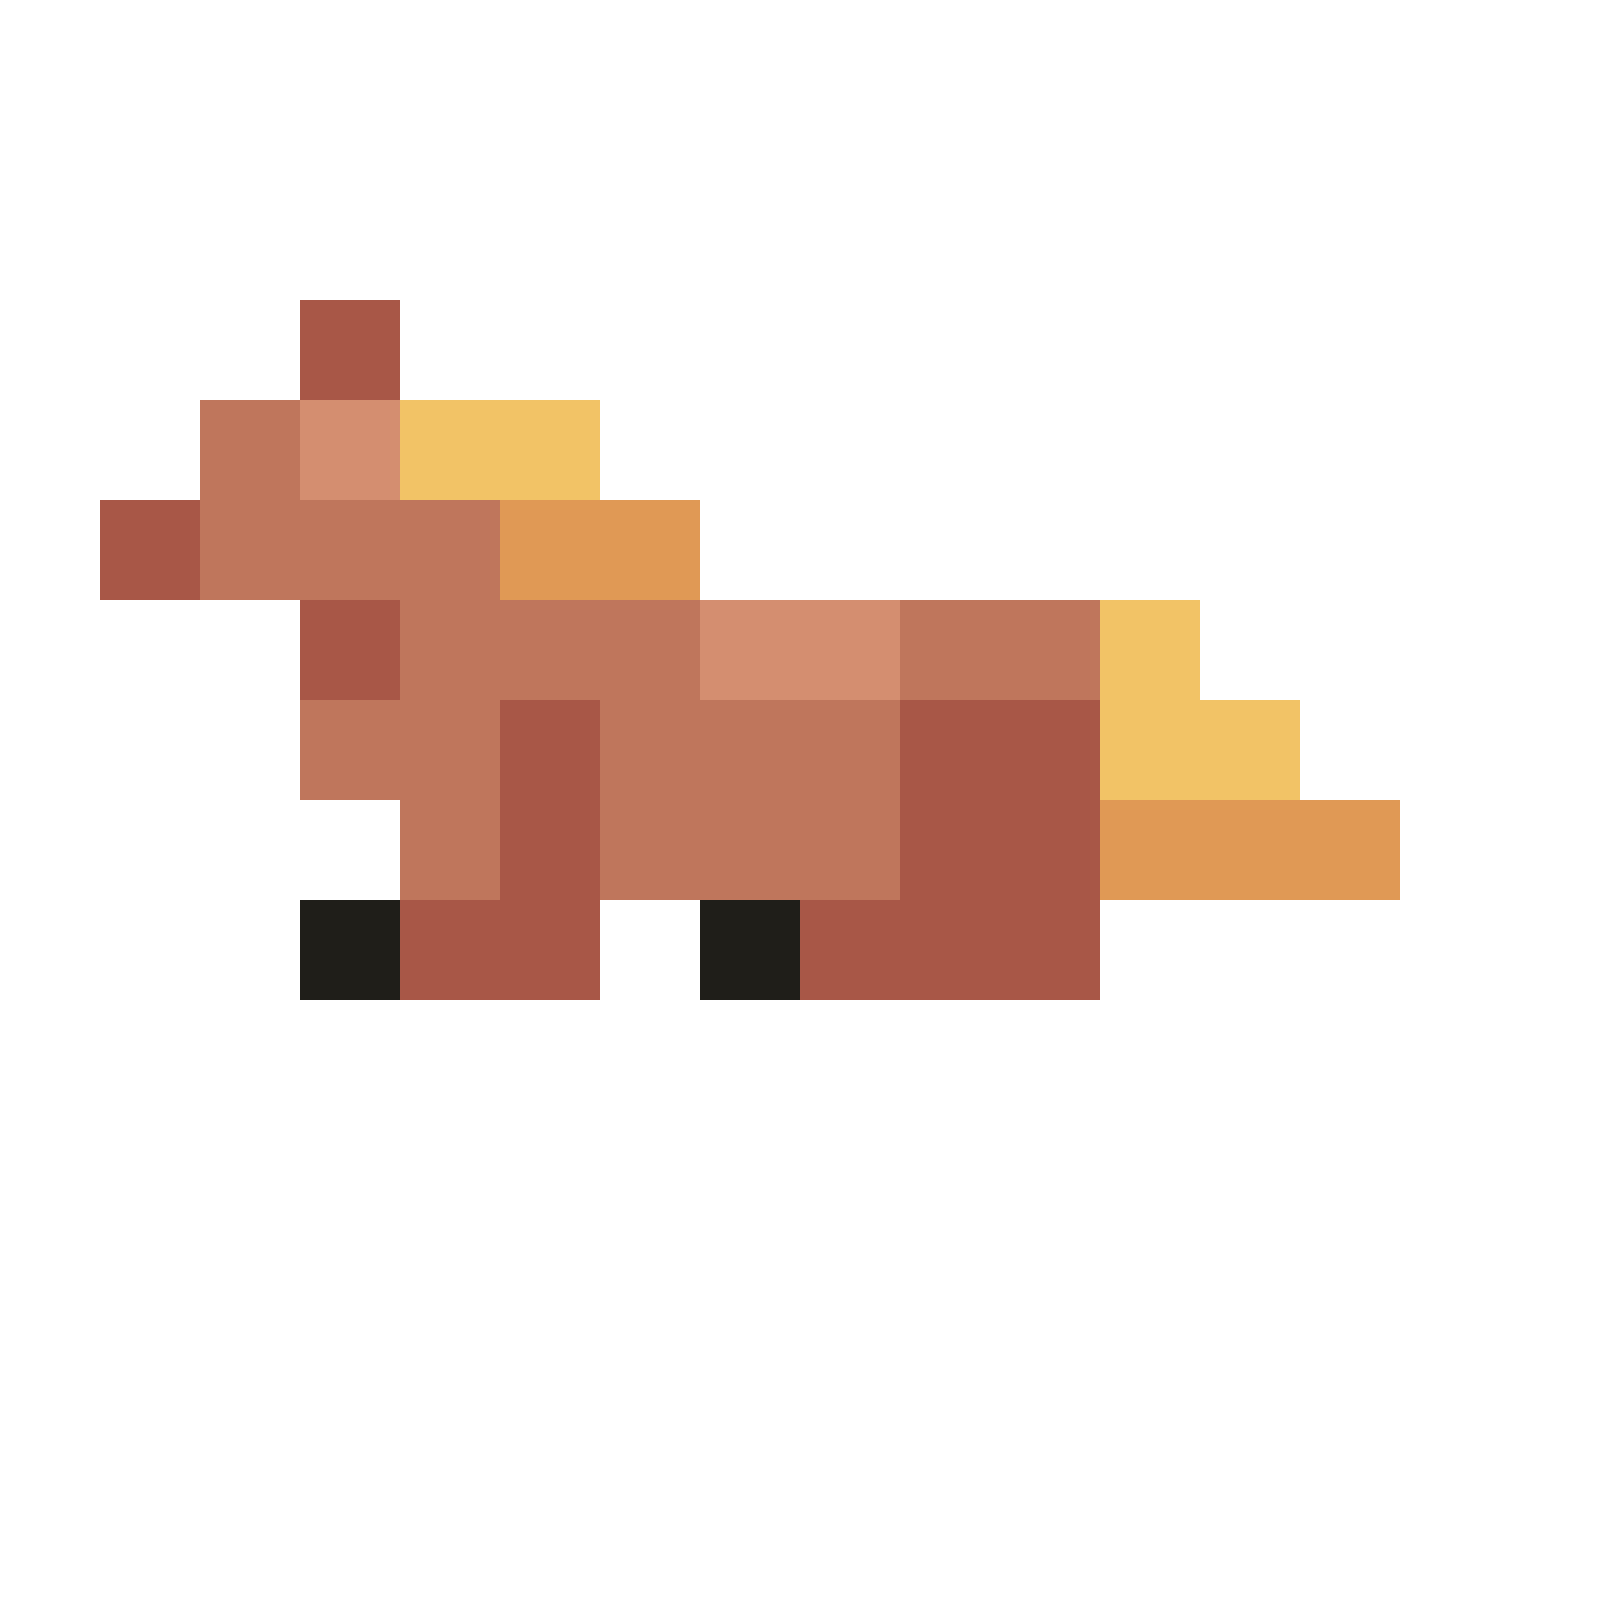
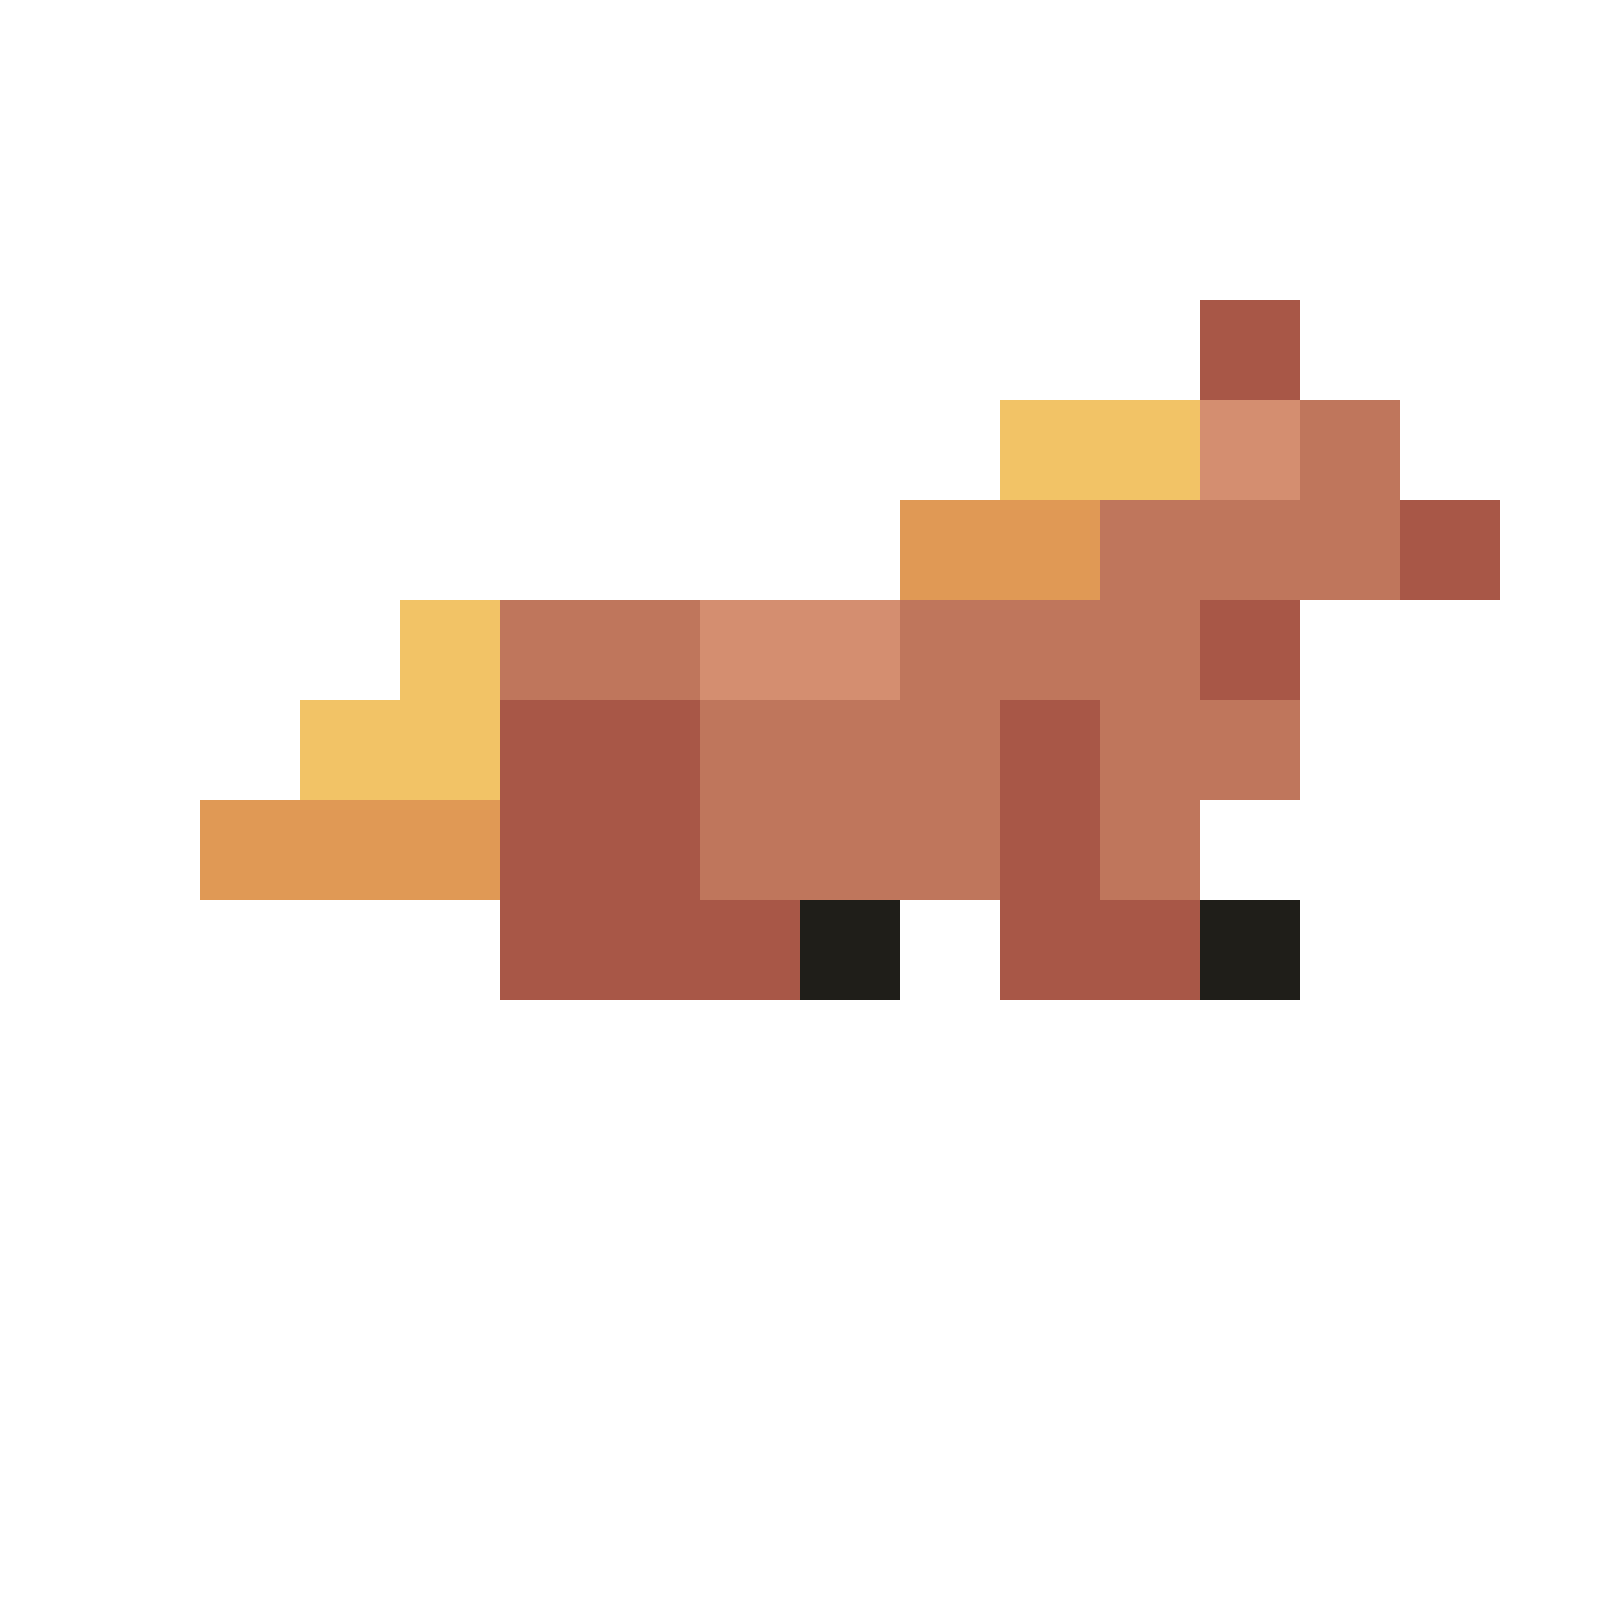
imagens

Changed region(s): [[0.5625, 0.1875, 0.9375, 0.625], [0.0625, 0.1875, 0.4375, 0.625], [0.375, 0.4375, 0.625, 0.625]]

diff --git a/cavalo/script.js b/cavalo/script.js
@@ -4,12 +4,12 @@ let start = false;
 document.addEventListener("keydown", (e) => {
   if (e.key == " " && !pulando && start) {
     const cavalo = document.getElementById("cavalo");
-    cavalo.style.animation = "pular 1s linear";
+    cavalo.style.animation = "pular 0.6s linear";
     pulando = true;
     setTimeout(() => {
       cavalo.style.animation = "";
       pulando = false;
-    }, 1000);
+    }, 600);
   }
 
   if (e.key == " " && !start) {
@@ -48,7 +48,7 @@ batida();
 function andar() {
     const pedra = document.getElementById("pedra");
     if (start) {
-        pedra.style.animation = "andar 2s infinite linear";
+        pedra.style.animation = "andar 1s infinite linear";
         pedra.style.display = "block";
     }
     else{

diff --git a/cavalo/style.css b/cavalo/style.css
@@ -12,6 +12,13 @@ div{
     height: 400px;
     border: 1px solid black;
     overflow: hidden;
+    background-repeat: no-repeat;
+    background-size: cover;
+    background-image: url(https://encrypted-tbn0.gstatic.com/images?q=tbn:ANd9GcRREFCoWInRRWcLt5sBavYNkukWnif9f4vzkaGzt9O0Cpa-KdFthUkraoTLw1GSoyyzeC8&usqp=CAU);
+}
+
+body{
+    background-color: black;
 }
 
 #cavalo{
@@ -20,7 +27,6 @@ div{
     left: 10px;
     width: 50px;
     height: 50px;
-    background-color: red;
 }
 
 #pedra{
@@ -47,7 +53,7 @@ div{
     }
 
     50%{
-        bottom: 80px;
+        bottom: 150px;
     }
 
     100%{

diff --git a/cavalo/index.html b/cavalo/index.html
@@ -9,7 +9,7 @@
 </head>
 <body>
     <div>
-        <img src="" alt="" id="cavalo">
+        <img src="./cavacorre.png" alt="" id="cavalo">
         <img src="" alt="" id="pedra">
     </div> 
 </body>

diff --git a/toupeira/style.css b/toupeira/style.css
@@ -14,6 +14,10 @@ div{
     overflow: hidden;
 }
 
+body{
+    background-color: black;
+}
+
 #pedra{
     width: 50px;
     height: 50px;
